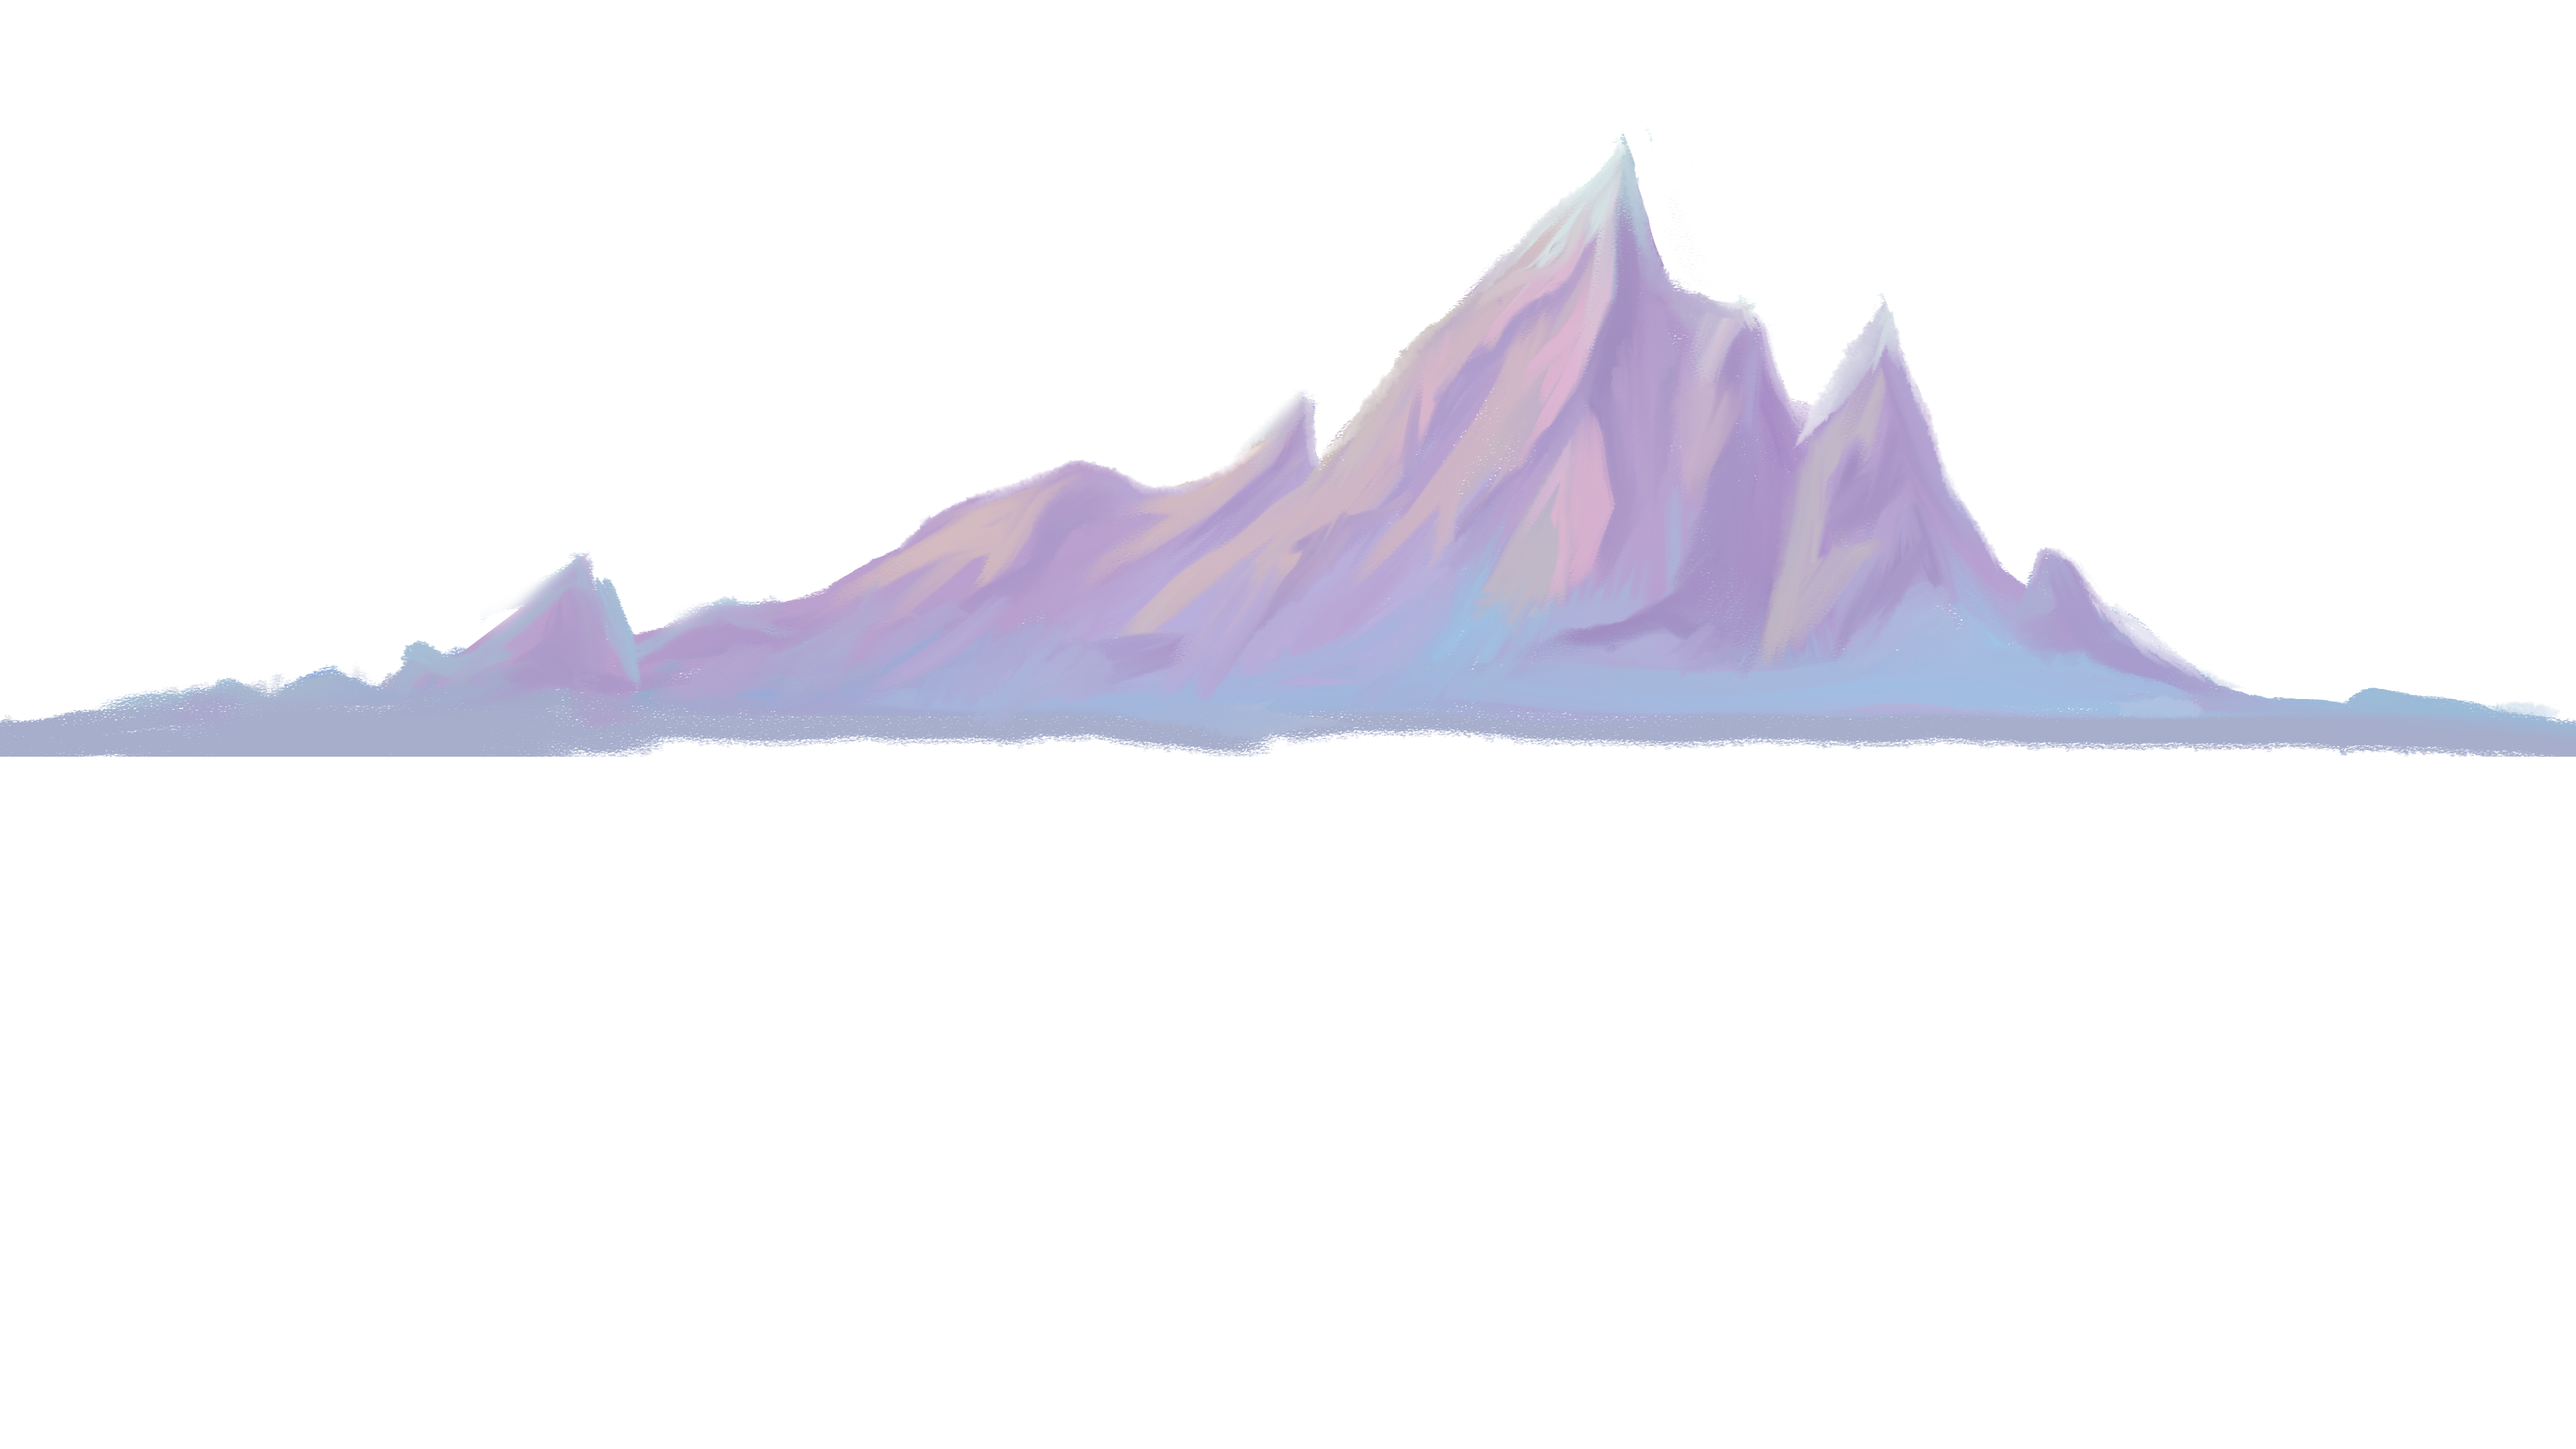
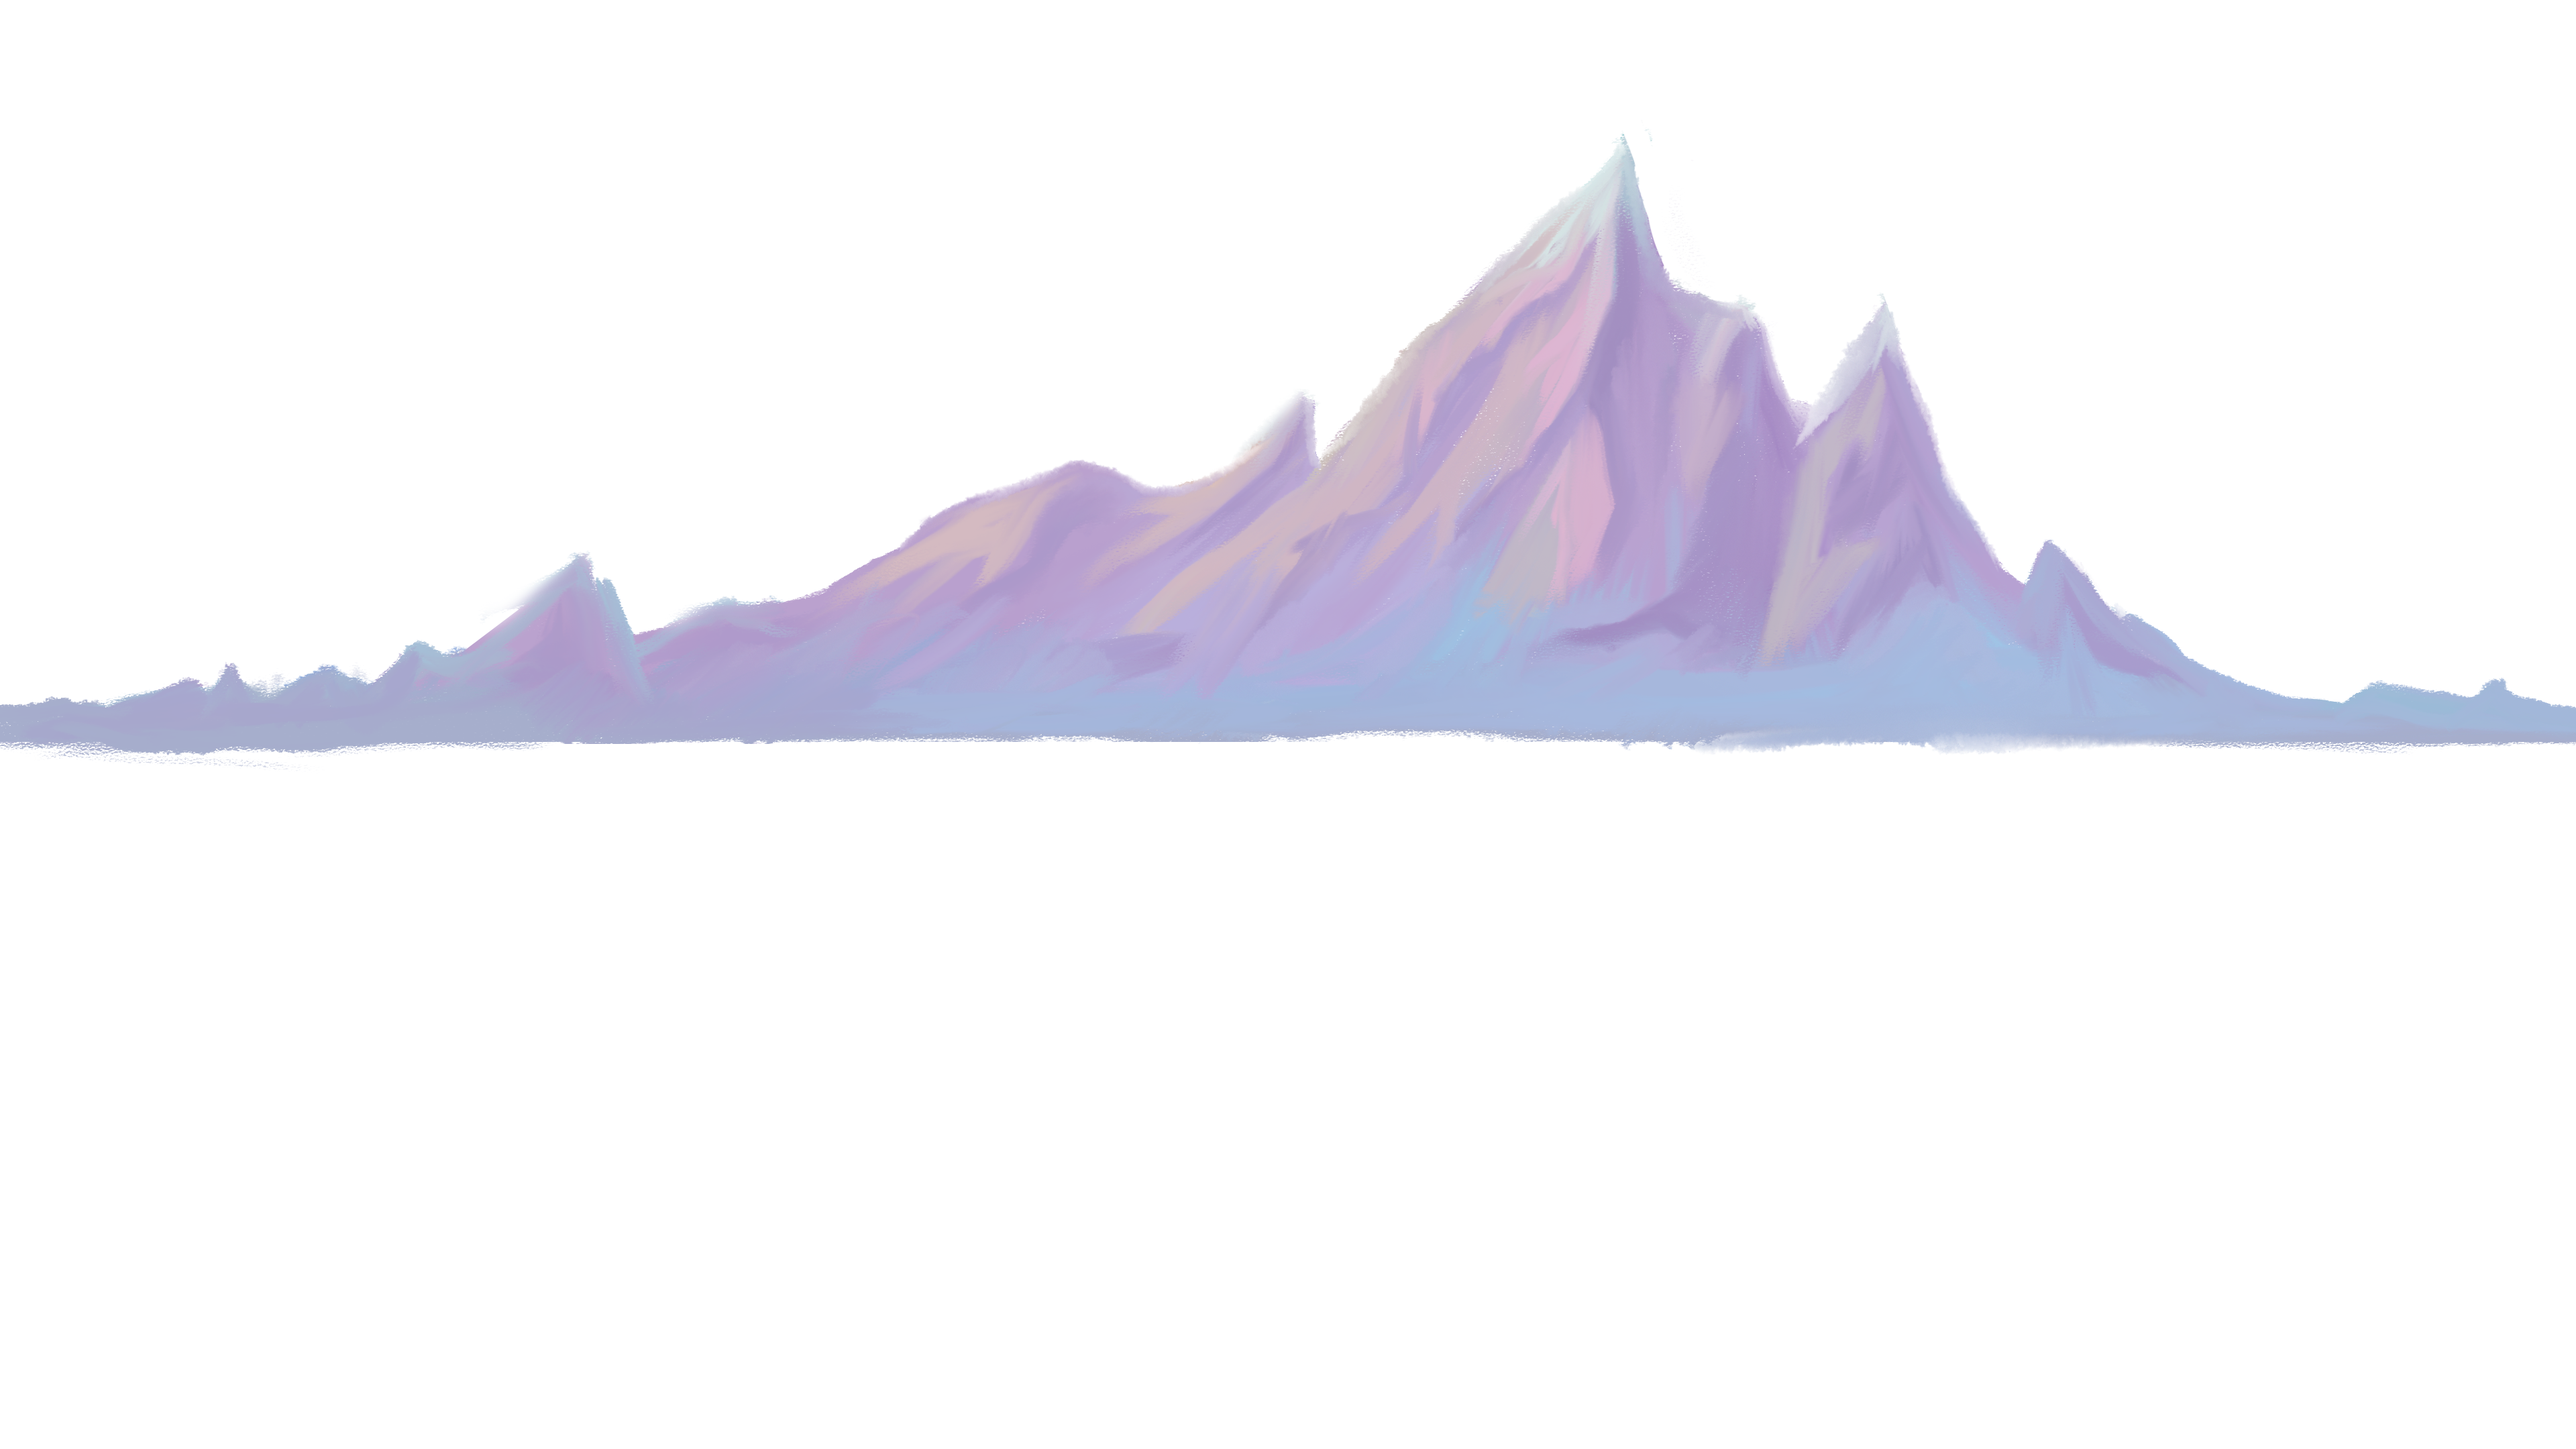
liike animaatio etusivu korjaus

diff --git a/styles.css b/styles.css
@@ -1077,14 +1077,19 @@ body.page-home:not(.entered) { overflow: hidden; }
   background-repeat: no-repeat;
 }
 .hero-layer-sky        { background-image: url("assets/duobotit/Etusivu kuvat/Duobotit_Background/05_Sky.png"); }
-.hero-layer-mountains  { background-image: url("assets/duobotit/Etusivu kuvat/Duobotit_Background/04_Mountains.png"); }
+.hero-layer-clouds-bg  { background-image: url("assets/duobotit/Etusivu kuvat/Duobotit_Background/06_Clouds_Back.png"); }
+.hero-layer-mountains  { background-image: url("assets/duobotit/Etusivu kuvat/Duobotit_Background/04_Mountains.png"); background-position: center 65%; transform: scale(1.06); }
+.hero-layer-clouds-mid { background-image: url("assets/duobotit/Etusivu kuvat/Duobotit_Background/06_Clouds_Middle.png"); }
 .hero-layer-clouds-fg  { background-image: url("assets/duobotit/Etusivu kuvat/Duobotit_Background/06_Clouds_Foreground.png"); }
-.hero-layer-island-1   { background-image: url("assets/duobotit/Etusivu kuvat/Duobotit_Background/07_Floating_Island_01.png"); }
+.hero-layer-island-1a  { background-image: url("assets/duobotit/Etusivu kuvat/Duobotit_Background/04_Floating_Island_01_1.png"); }
+.hero-layer-island-1b  { background-image: url("assets/duobotit/Etusivu kuvat/Duobotit_Background/04_Floating_Island_01_2.png"); }
 .hero-layer-island-2   { background-image: url("assets/duobotit/Etusivu kuvat/Duobotit_Background/08_Floating_Island_02.png"); }
 .hero-layer-island-3   { background-image: url("assets/duobotit/Etusivu kuvat/Duobotit_Background/09_Floating_Island_03.png"); }
-.hero-layer-island-4   { background-image: url("assets/duobotit/Etusivu kuvat/Duobotit_Background/10_Floating_Island_04.png"); }
-.hero-layer-island-5   { background-image: url("assets/duobotit/Etusivu kuvat/Duobotit_Background/11_Floating_Island_05.png"); }
+.hero-layer-island-4   { background-image: url("assets/duobotit/Etusivu kuvat/Duobotit_Background/10_Floating_Island_04.png"); filter: contrast(1.2) saturate(1.15) drop-shadow(0 6px 10px rgba(20,30,50,0.25)); }
+.hero-layer-island-5a  { background-image: url("assets/duobotit/Etusivu kuvat/Duobotit_Background/08_Floating_Island_05_1.png"); }
+.hero-layer-island-5b  { background-image: url("assets/duobotit/Etusivu kuvat/Duobotit_Background/08_Floating_Island_05_2.png"); }
 .hero-layer-island-6   { background-image: url("assets/duobotit/Etusivu kuvat/Duobotit_Background/12_Floating_Island_06.png"); }
+.hero-layer-island-7   { background-image: url("assets/duobotit/Etusivu kuvat/Duobotit_Background/08_Floating_Island_05.png"); }
 .hero-layer-sea        { background-image: url("assets/duobotit/Etusivu kuvat/Duobotit_Background/03_Sea.png"); }
 .hero-layer-grass      { background-image: url("assets/duobotit/Etusivu kuvat/Duobotit_Background/02_Midground_Grass.png"); }
 .hero-layer-flowers    { background-image: url("assets/duobotit/Etusivu kuvat/Duobotit_Background/01_Foreground_Flowers.png"); }
@@ -1101,11 +1106,14 @@ body.page-home:not(.entered) { overflow: hidden; }
   100% { transform: translateY(0) rotate(calc(var(--float-rot, 0deg) * -1)); }
 }
 /* ===== SAARTEN KELLUNTA-SÄÄDÖT (muuta vain näitä arvoja) ===== */
-.hero-layer-island-1 { --float-amp: -5px;  --float-dur: 11s;  --float-delay: 0s;   --float-rot: 0.3deg; }
-.hero-layer-island-2 { --float-amp: -6px;  --float-dur: 12s;  --float-delay: -2s;  --float-rot: 0.35deg; }
-.hero-layer-island-3 { --float-amp: -18px; --float-dur: 12s;   --float-delay: -4s;  --float-rot: 1deg; }
+.hero-layer-island-1a { --float-amp: -3px;  --float-dur: 13s;  --float-delay: 0s;   --float-rot: 0.15deg; }
+.hero-layer-island-1b { --float-amp: -2.5px;  --float-dur: 12s;   --float-delay: -3s;  --float-rot: 0.12deg; }
+.hero-layer-island-2 { --float-amp: -6px;  --float-dur: 12s;  --float-delay: 1s;  --float-rot: 0.0deg; }
+.hero-layer-island-3 { --float-amp: -5px; --float-dur: 15s;   --float-delay: -6s;  --float-rot: 0.25deg; }
 .hero-layer-island-4 { --float-amp: -10px; --float-dur: 12s;   --float-delay: -1s;  --float-rot: 0.7deg; }
-.hero-layer-island-5 { --float-amp: 0px; --float-dur: 15s; --float-delay: -8s;  --float-rot: 0.4deg; }
+.hero-layer-island-5a { --float-amp: -4px; --float-dur: 9.5s; --float-delay: -2s;  --float-rot: 0.2deg; }
+.hero-layer-island-5b { --float-amp: -6px; --float-dur: 11s; --float-delay: -4.5s;  --float-rot: 0.3deg; }
+.hero-layer-island-7 { --float-amp: -8px; --float-dur: 10.5s; --float-delay: -6s;  --float-rot: 0.4deg; }
 .hero-layer-island-6 { --float-amp: -16px; --float-dur: 6.5s; --float-delay: 0s;  --float-rot: 0.8deg; }
 @media (prefers-reduced-motion: reduce) {
   .hero-island { animation: none; }

diff --git a/index.html b/index.html
@@ -8,7 +8,7 @@
     <link rel="preconnect" href="https://fonts.googleapis.com" />
     <link rel="preconnect" href="https://fonts.gstatic.com" crossorigin />
     <link href="https://fonts.googleapis.com/css2?family=Fredoka:wght@600;700&family=Caveat:wght@700&family=Space+Mono:wght@400;700&family=Nunito:wght@400;600;700&display=swap" rel="stylesheet" />
-    <link rel="stylesheet" href="styles.css?v=94" />
+    <link rel="stylesheet" href="styles.css?v=110" />
     <!-- EI Three.js / WebGL -importmappia tällä sivulla — kevyt 2D-etusivu. -->
   </head>
 
@@ -140,15 +140,18 @@
       <section class="hero" aria-label="Esittely">
         <div class="hero-bg" aria-hidden="true">
           <i class="hero-layer hero-layer-sky"></i>
+          <i class="hero-layer hero-layer-clouds-bg"></i>
           <i class="hero-layer hero-layer-mountains"></i>
-          <i class="hero-layer hero-layer-clouds-fg"></i>
-          <i class="hero-layer hero-layer-island-1 hero-island"></i>
-          <i class="hero-layer hero-layer-island-2 hero-island"></i>
           <i class="hero-layer hero-layer-island-3 hero-island"></i>
           <i class="hero-layer hero-layer-island-4 hero-island"></i>
-          <i class="hero-layer hero-layer-island-5 hero-island"></i>
+          <i class="hero-layer hero-layer-island-5a hero-island"></i>
+          <i class="hero-layer hero-layer-island-5b hero-island"></i>
           <i class="hero-layer hero-layer-island-6"></i>
+          <i class="hero-layer hero-layer-island-7 hero-island"></i>
           <i class="hero-layer hero-layer-sea hero-water"></i>
+          <i class="hero-layer hero-layer-clouds-fg"></i>
+          <i class="hero-layer hero-layer-island-1a hero-island"></i>
+          <i class="hero-layer hero-layer-island-1b hero-island"></i>
           <i class="hero-layer hero-layer-grass hero-sway"></i>
           <i class="hero-layer hero-layer-flowers hero-sway"></i>
         </div>
